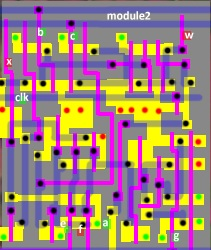
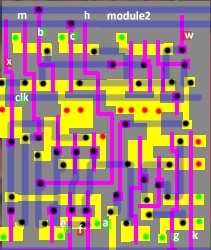
module2/regbit tran

diff --git a/bottom.md b/bottom.md
@@ -15,3 +15,14 @@ For the SM83 the layout is slightly different: the ALU is on the top-left and at
 ## Register Bit
 
 ![regbit](/imgstore/modules/regbit.jpg)
+
+![regbit_tran](/imgstore/modules/regbit_tran.jpg)
+
+DFF with complementary set enable, complementary CLK.
+
+- In the middle is a FlipFlop made of not
+- Input value can be written to FlipFlop only if CLK=1 and LD=1
+- When LD=0 the FlipFlop value is updated with the old value
+- The output contains a latch with a gate memory that opens when LD=0 (so that the old value is returned during the write (LD=1))
+- So the written value becomes relevant when LD 1->0 changes (when the output latch opens and is updated with the value from FlipFlop).
+- The whole thing is complicated by the complementary layout of the LD and CLK signals.

diff --git a/alu.md b/alu.md
@@ -49,6 +49,8 @@ module2 (x8):
 
 ![module2](/imgstore/modules/module2.jpg)
 
+![module2_tran](/imgstore/modules/module2_tran.jpg)
+
 |Port|Dir|Description|
 |---|---|---|
 |a|input|comb1-3 outputs|
@@ -57,10 +59,10 @@ module2 (x8):
 |e|input|Large Comb results|
 |f|output|To Large Comb NAND trees|
 |g|input|External|
-|h| |
-|k| |
-|m| |
-|clk|input| |
+|h|output|To Christmas Tree|
+|k|input|DV\[n\]|
+|m|output|To Christmas Tree|
+|clk|input|CLK2|
 |x|output|To Christmas Tree|
 |w|output|To Christmas Tree|
 

diff --git a/seq.md b/seq.md
@@ -2,7 +2,7 @@
 
 Status: All connections and the element base are ready. You can rebuild the circuit.
 
-![locator_dispatch](/imgstore/locator_dispatch.png)
+![locator_seq](/imgstore/locator_seq.png)
 
 |![seq](/imgstore/seq.jpg)|![seq_netlist](/imgstore/seq_netlist.png)|
 |---|---|
